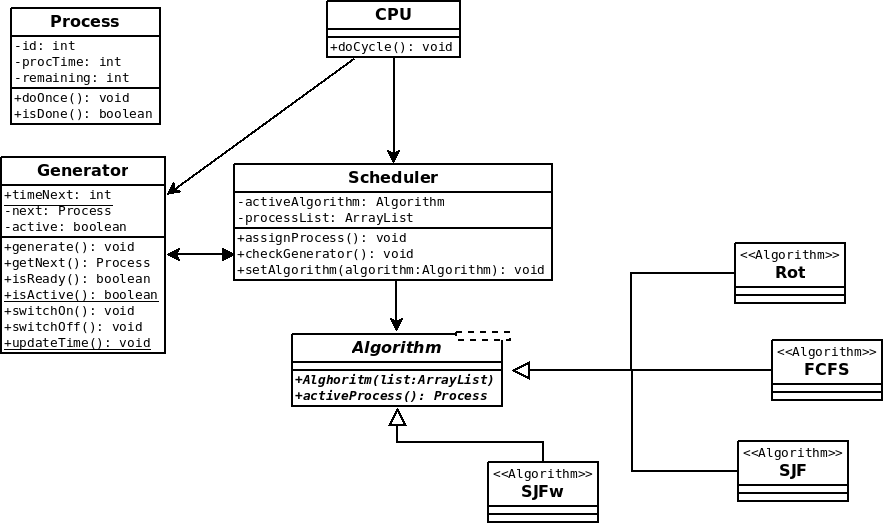
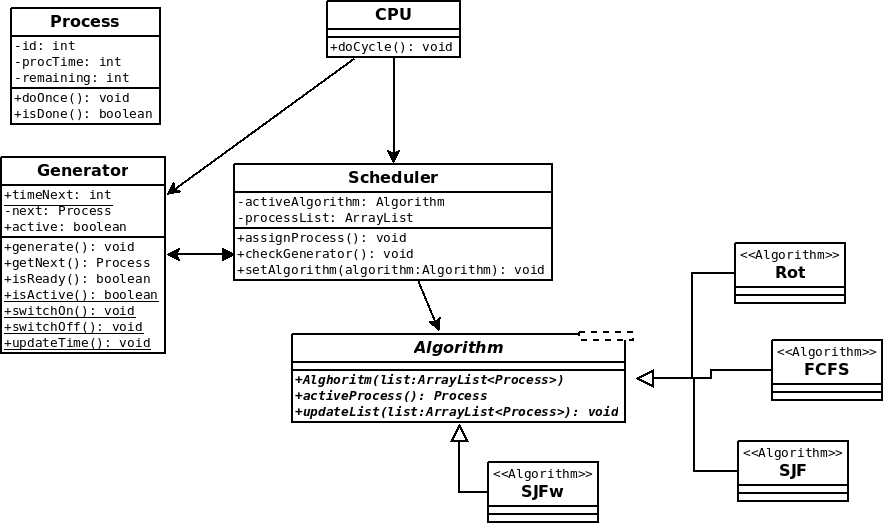
Added FCFS and Rot Algorithms, changed Algorithm class to suit added algorithms, updated diagrams

diff --git a/FCFS.java b/FCFS.java
@@ -1,0 +1,26 @@
+import java.util.ArrayList;
+import java.util.Queue;
+
+
+public class FCFS extends Algorithm {
+	
+	Queue<Process> listq;
+	
+	public FCFS(ArrayList<Process> list) {
+		super(list);
+		listq=(Queue<Process>) list;
+	}
+
+	@Override
+	public Process activeProcess() {
+		if(listq.peek().isDone())listq.poll();
+		return listq.peek();
+	}
+
+	@Override
+	public void updateList(ArrayList<Process> list) {
+		listq=(Queue<Process>) list;
+		
+	}
+
+}

diff --git a/Rot.java b/Rot.java
@@ -1,0 +1,24 @@
+import java.util.ArrayList;
+
+
+public class Rot extends Algorithm {
+	int index;
+	public Rot(ArrayList<Process> list) {
+		super(list);
+		index = 0;
+	}
+
+	@Override
+	public Process activeProcess() {
+		if(index >= list.size()) index = 0;
+		index++;
+		return list.get(index-1);
+	}
+
+	@Override
+	public void updateList(ArrayList<Process> list) {
+		this.list = list;
+
+	}
+
+}

diff --git a/Scheduler.java b/Scheduler.java
@@ -14,6 +14,7 @@ public class Scheduler {
 	public void assignProcess()
 	{
 		checkGenerator();
+		activeAlgorithm.updateList(processList);
 		if(!processList.isEmpty())
 		{
 			activeAlgorithm.activeProcess().doOnce();

diff --git a/Algorithm.java b/Algorithm.java
@@ -9,5 +9,6 @@ public abstract class Algorithm {
 		this.list=list;
 	}
 	public abstract Process activeProcess();
+	
+	public abstract void updateList(ArrayList<Process> list);
 }
-//cus takiego?
